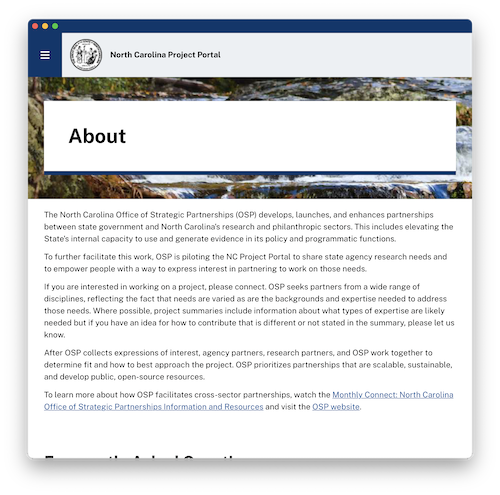
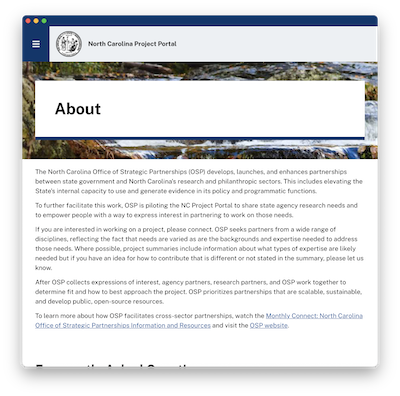
downsample images again so they fit side-by-side in 830px

diff --git a/blog/project-portal-completed.md b/blog/project-portal-completed.md
@@ -32,16 +32,16 @@ After two full years of work on the **Project Portal** – websites which share 
       <img 
         src="/content/images/blog/project-portal-completed/satx.png" 
         alt="Screenshot of the San Antonio Research Partnerships Portal" 
-        width=500 
-        height=495 
+        width=400 
+        height=396 
       />
     </a
     <a href="https://projectportal.nc.gov">
       <img 
         src="/content/images/blog/project-portal-completed/nc.png" 
         alt="Screenshot of the North Carolina Project Portal" 
-        width=500 
-        height=495 
+        width=400 
+        height=396 
       />
     </a>
   <figcaption>
